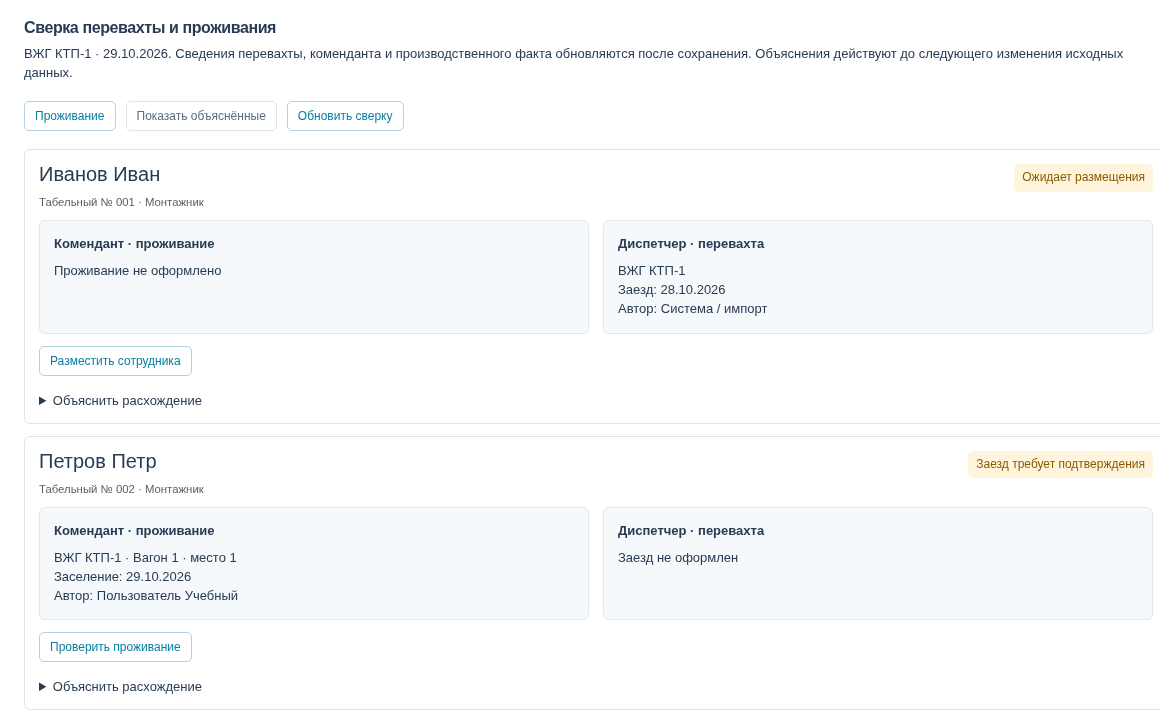
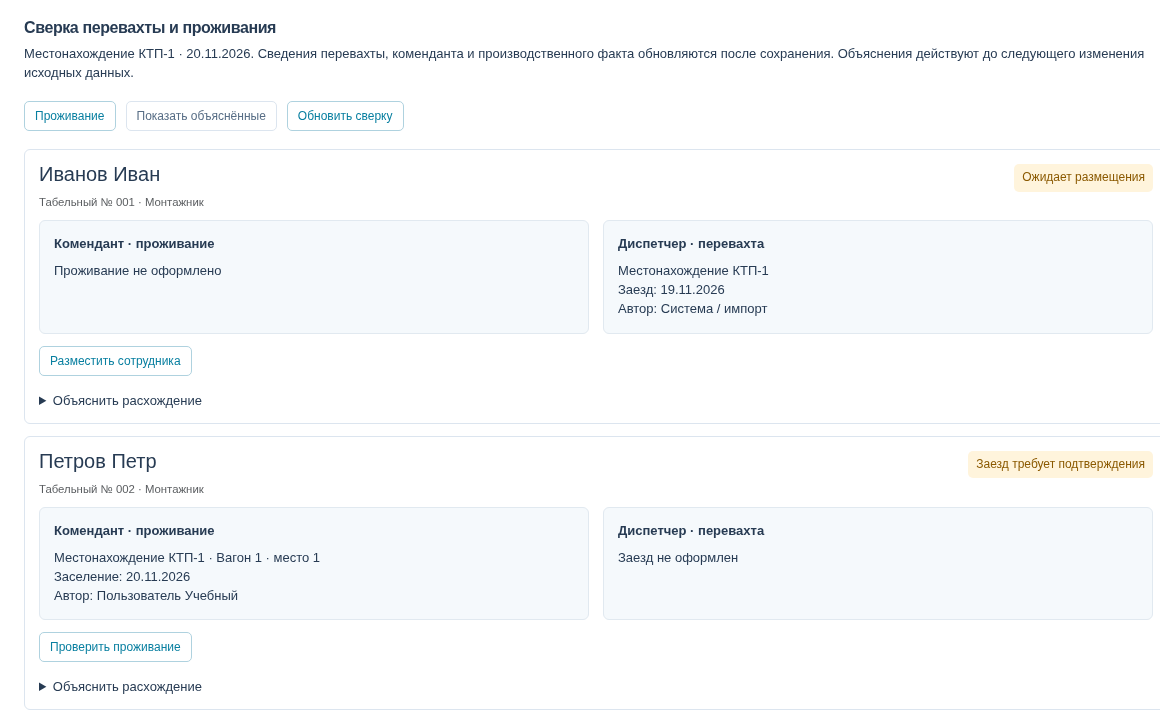
Refresh commandant guide and screenshots

Changed region(s): [[0.031, 0.0611, 0.9931, 0.1222], [0.031, 0.7639, 0.2793, 0.825], [0.5276, 0.3667, 0.6517, 0.4278]]

diff --git a/tests/browser/instructions.js b/tests/browser/instructions.js
@@ -6,6 +6,8 @@ const selector=page.locator('[data-fact-selector]'),date=selector.locator('[name
 return page;}
 async function shot(page,name,selector){if(selector){const el=page.locator(selector).first();await el.scrollIntoViewIfNeeded();await el.screenshot({path:c.images+'/'+name+'.png',animations:'disabled'});}else{await page.evaluate(()=>scrollTo(0,0));const box=await page.locator('main').boundingBox();await page.screenshot({path:c.images+'/'+name+'.png',clip:{x:Math.max(0,box.x),y:Math.max(0,box.y),width:Math.min(1160,box.width),height:Math.min(720,1000-Math.max(0,box.y))},animations:'disabled'});}captured++;}
 async function help(page,slug){const original=page.url(),entry=page.locator('[data-instructions-link]');assert.equal(await entry.count(),1);assert.equal(await entry.getAttribute('target'),'_blank');const popupPromise=page.waitForEvent('popup');await entry.click();const popup=await popupPromise;await popup.waitForLoadState();assert(popup.url().includes('/instructions/'+slug+'/'));assert.equal(page.url(),original);assert(await popup.locator('.help-toc').count());await popup.close();await page.setViewportSize({width:390,height:844});const box=await entry.boundingBox();assert(box.x>=0&&box.x+box.width<=390);assert(await page.evaluate(()=>document.documentElement.scrollWidth<=innerWidth+2));await page.evaluate(()=>scrollTo(0,0));await page.screenshot({path:'/tmp/fact-ux-mobile-'+slug+'.png',fullPage:true});await page.setViewportSize({width:1440,height:1000});}
+async function lodgingShots(){const lodging=await pageFor(c.lodging);await help(lodging,'lodging');await shot(lodging,'lodging-start');await lodging.locator('#movement > summary').click();await lodging.locator('#movement input[type=date]').evaluateAll(inputs=>inputs.forEach(input=>{const [year,month,day]=input.value.split('-');if(year&&month&&day){input.type='text';input.value=`${day}.${month}.${year}`;}}));await shot(lodging,'lodging-movement','#movement');const target=new URL(await lodging.getByRole('link',{name:'Сверка с перевахтой',exact:true}).getAttribute('href'),c.base);await lodging.goto(c.base+target.pathname+'?'+new URL(c.base+c.lodging.url).searchParams);await shot(lodging,'lodging-reconcile');}
+if(c.lodging_only){await lodgingShots();console.log('PASS: current commandant workflow and three instruction screenshots captured.');return;}
 const production=await pageFor(c.production);await help(production,'production');await shot(production,'production-start');
 const next=production.locator('[data-step-next]'),previous=production.locator('[data-step-previous]');assert.equal(await previous.isVisible(),false);await next.click();assert.equal(await previous.isVisible(),true);assert((await next.textContent()).includes('К бригадам'));await previous.click();assert.equal(await previous.isVisible(),false);
 for(const d of await production.locator('[data-work-object],[data-work-package]').all())await d.evaluate(el=>el.open=true);await shot(production,'production-works','[data-work-fact-row]');for(const [step,name] of [[2,'production-people'],[3,'production-crews'],[4,'production-links'],[5,'production-report']]){await production.locator('[data-step="'+step+'"]').click();if(step===3)await production.locator('.production-crew-recommendations').waitFor();await shot(production,name,'[data-entry-step="'+step+'"]');}
@@ -15,7 +17,7 @@ if(c.production_only){console.log('PASS: current production workflow and six ins
 const rotation=await pageFor(c.rotation);await help(rotation,'rotation');await shot(rotation,'rotation-start');await shot(rotation,'rotation-roster','[data-housing-panel=roster]');await rotation.locator('[data-housing-tab=calendar]').click();await rotation.locator('[data-calendar-table-scroll]').waitFor();await shot(rotation,'rotation-calendar','[data-housing-panel=calendar]');
 const movement=await pageFor({...c.rotation,url:c.rotation.movement_url});await movement.locator('input[type=date]').evaluateAll(inputs=>inputs.forEach(input=>{const [year,month,day]=input.value.split('-');if(year&&month&&day){input.type='text';input.value=`${day}.${month}.${year}`;}}));await shot(movement,'rotation-movement','[data-housing-panel=movement]');
 if(c.rotation_only){console.log('PASS: current personnel dispatcher workflow and four instruction screenshots captured.');return;}
-const lodging=await pageFor(c.lodging);await help(lodging,'lodging');await shot(lodging,'lodging-start');await lodging.locator('[data-open-lodging-movement]').click();await shot(lodging,'lodging-movement','[data-lodging-movement]');await lodging.goto(c.base+new URL(await lodging.getByRole('link',{name:'Сверка с перевахтой',exact:true}).getAttribute('href'),c.base).pathname+'?'+new URL(c.base+c.lodging.url).searchParams);await shot(lodging,'lodging-reconcile');
+await lodgingShots();
 const fuel=await pageFor(c.fuel);await help(fuel,'fuel');assert.equal(await fuel.locator('select[name=fuel_type]').count(),0);await shot(fuel,'fuel-start');await shot(fuel,'fuel-balance','[data-camp-fuel-form]');await shot(fuel,'fuel-history','details');
 const fuelForm=fuel.locator('[data-camp-fuel-form]'),received=fuelForm.locator('[name=received]'),savedReceived=await received.inputValue();await received.fill('');assert.equal((await fuel.locator('[data-fuel-preview]').textContent()).trim(),'—');await received.fill('99.125');assert((await fuelForm.locator('[data-fact-manual-state]').textContent()).includes('несохранённые'));
 // Preserve real m³ values on successful roundtrip, then exercise a rejected negative balance.

diff --git a/templates/instructions/article.html b/templates/instructions/article.html
@@ -33,7 +33,7 @@
         {% if chapter.table %}<div class="help-table-scroll"><table class="table"><thead><tr>{% for head in chapter.table.headers %}<th scope="col">{{ head }}</th>{% endfor %}</tr></thead><tbody>{% for row in chapter.table.rows %}<tr>{% for cell in row %}<td>{{ cell }}</td>{% endfor %}</tr>{% endfor %}</tbody></table></div>{% endif %}
         {% if chapter.image %}
         <figure class="help-figure">
-          <a href="{% static 'instructions/' %}{{ chapter.image }}.png?v=20261119-dispatcher-flow" target="_blank" rel="noopener" aria-label="Увеличить картинку: {{ chapter.title }}"><img src="{% static 'instructions/' %}{{ chapter.image }}.png?v=20261119-dispatcher-flow" alt="Учебный экран. {{ chapter.title }}" loading="lazy" decoding="async"></a>
+          <a href="{% static 'instructions/' %}{{ chapter.image }}.png?v=20261121-lodging-current" target="_blank" rel="noopener" aria-label="Увеличить картинку: {{ chapter.title }}"><img src="{% static 'instructions/' %}{{ chapter.image }}.png?v=20261121-lodging-current" alt="Учебный экран. {{ chapter.title }}" loading="lazy" decoding="async"></a>
           <figcaption>{{ chapter.title }}. Нажмите на картинку, чтобы рассмотреть крупнее.</figcaption>
         </figure>
         {% endif %}

diff --git a/core/instructions_content.py b/core/instructions_content.py
@@ -383,12 +383,13 @@ GUIDES = [{'slug': 'production',
   'chapters': [{'id': 'start',
                 'title': '1. Откройте местонахождение и посмотрите места',
                 'steps': ['Откройте «Внесение факта» → «Комендант · проживание».',
-                          'Выберите местонахождение, дату и при необходимости поиск или состояние места. Нажмите '
-                          '«Открыть».',
+                          'Выберите местонахождение и при необходимости задайте поиск или состояние места. '
+                          'Нажмите «Открыть». Экран всегда показывает текущее размещение, отдельного фильтра даты нет.',
                           'Проверьте итоги «Проживают», «Свободных мест», «Зарезервировано», «Недоступно». В заголовке каждого вагона показаны его счётчики. Места не загружаются все сразу: раскройте нужный вагон или корпус и дождитесь появления таблицы.',
-                          'В голубом блоке «Рабочий день» проверьте дату и объект или местонахождение. Кнопки «Сегодня» '
-                          'и «Вчера» открывают соответствующий день с теми же фильтрами. Если меняете '
-                          'условия вручную, примените их кнопкой в форме выбора.',
+                          'Панель фильтров закрепляется сверху при прокрутке на компьютере. Можно менять поиск '
+                          'и состояние мест, не возвращаясь к началу длинного списка.',
+                          'В зелёном сообщении указано, кто сейчас редактирует местонахождение. Один комендант '
+                          'вносит изменения, остальные пользователи видят актуальные сведения в режиме просмотра.',
                           'Если появилась ошибка, нажмите на сообщение в блоке «Нужно исправить». Портал '
                           'откроет нужную вкладку или группу и переведёт вас к месту исправления.'],
                 'text': '',
@@ -400,31 +401,33 @@ GUIDES = [{'slug': 'production',
                           'отдельно в «Перевахте».'},
                {'id': 'checkin',
                 'title': '2. Заселите сотрудника',
-                'steps': ['Нажмите «Оформить проживание» и выберите действие заселения.',
-                          'Выберите сотрудника, свободное новое место и фактическую дату. В выборе видны все '
+                'steps': ['Раскройте блок «Заселить, переселить или выселить» и выберите действие «Заселить».',
+                          'Укажите фактическую дату и сотрудника. В выборе видны все '
                           'сотрудники компании. Архивные отмечены отдельно: для нового заселения нужен '
-                          'активный сотрудник. Если места нет в списке, проверьте местонахождение, дату и состояние '
-                          'места.',
-                          'Заполните плановую дату выселения, если она известна. Отметьте выдачу ключей; при '
-                          'необходимости впишите номер ключа, пропуска и примечание.',
-                          'Нажмите «Сохранить». Портал сам проверит и временно зарезервирует сотрудника и место, '
-                          'чтобы два человека не оформили их одновременно, затем сразу сохранит проживание. '
-                          'Проверьте сотрудника в таблице мест.'],
+                          'активный сотрудник. Уже заселённый сотрудник будет подписан и недоступен для повторного заселения.',
+                          'Выберите вагон / корпус, затем свободное место внутри него. Если вагон не выбран, '
+                          'в списке показываются все свободные места местонахождения.',
+                          'При необходимости впишите номер пропуска, номер ключа, отметьте выдачу ключей и добавьте примечание.',
+                          'Нажмите единственную кнопку «Сохранить». Портал сам проверит сотрудника и место, '
+                          'защитит их от одновременного оформления и сразу изменит текущее размещение.',
+                          'После сохранения появится сообщение с ФИО сотрудника и ссылкой «Показать место». '
+                          'Нажмите её, чтобы раскрыть нужный вагон и подсветить место.'],
                 'text': '',
                 'bullets': (),
-                'example': 'Заселите Иванова в вагон 1, комнату 2, место 3 с 29 октября. Ключ выдан, номер '
-                           'ключа 12. Плановый выезд — 10 ноября.',
+                'example': 'Заселите Иванова в вагон 1, комнату 2, место 3 с фактической датой 29 октября. '
+                           'Ключ выдан, номер ключа 12.',
                 'image': 'lodging-movement',
                 'table': None,
-                'notice': 'Плановая дата выселения — напоминание. Место освободится только после оформления '
-                          'фактического выселения.'},
+                'notice': 'Фактическая дата сохраняется в записи и истории, но не откладывает действие. '
+                          'Даже при прошлой или будущей дате сотрудник сразу считается проживающим.'},
                {'id': 'move',
                 'title': '3. Переселите, выселите или обновите сведения',
                 'steps': ['В строке проживающего нажмите «Переселить», чтобы выбрать новое свободное место. '
-                          'Укажите дату и сохраните оформление.',
-                          'Для фактического ухода нажмите «Выселить». Проверьте человека и дату, начните '
-                          'оформление и сохраните.',
-                          'Для изменения ключей, пропуска, плановой даты или примечания используйте '
+                          'Укажите фактическую дату и нажмите «Сохранить». Старое место освободится, а новое '
+                          'сразу станет занятым. В сообщении будут ссылки и на старое, и на новое место.',
+                          'Для фактического ухода нажмите «Выселить». Проверьте человека и дату, затем '
+                          'нажмите «Сохранить». Место освободится сразу независимо от указанной даты.',
+                          'Для изменения ключей, пропуска или примечания используйте '
                           'доступное действие обновления сведений, не создавайте повторное заселение.',
                           'Пол сотрудника можно уточнить в соответствующей колонке. Он сохраняется в '
                           'карточке сотрудника.'],
@@ -434,7 +437,8 @@ GUIDES = [{'slug': 'production',
                            'заселения.',
                 'image': '',
                 'table': None,
-                'notice': 'Выселение освобождает койко-место. Оно не оформляет выезд человека из местонахождения.'},
+                'notice': 'Заселение, переселение и выселение меняют текущее размещение сразу. Введённая дата '
+                          'остаётся справочным фактом в истории и не оформляет заезд или выезд в перевахте.'},
                {'id': 'places',
                 'title': '4. Добавьте вагон и место',
                 'steps': ['Для нового вагона или корпуса используйте «Добавить вагон / корпус». Укажите '
@@ -457,7 +461,7 @@ GUIDES = [{'slug': 'production',
                 'steps': ['Нажмите «Сверка с перевахтой». Откройте строку расхождения.',
                           'Если заезд есть, а проживания нет, уточните место и оформите заселение.',
                           'Если выезд есть, а место ещё занято, проверьте факт выселения и закройте '
-                          'проживание нужной датой.',
+                          'проживание, указав известную фактическую дату.',
                           'Если расходятся городки или даты, сравните обе записи и уточните сведения у '
                           'диспетчера по персоналу. Исправляйте свою часть учёта.',
                           'Если доступно подтверждение проверенного случая, укажите основание. Такая отметка '
@@ -475,15 +479,15 @@ GUIDES = [{'slug': 'production',
                           'Для исправления ошибочных дат используйте действие исправления записи и укажите '
                           'причину. Если запись изменил коллега или появились последующие перемещения, '
                           'обновите страницу и перепроверьте цепочку.',
-                          'Кнопка «Выгрузить Excel» скачивает состав по текущей выборке. Для проверки '
-                          'прошлой даты сначала выберите её в фильтре.'],
+                          'Кнопка «Выгрузить Excel» скачивает текущее размещение с учётом поиска и состояния '
+                          'мест. Прошлые и будущие даты операций смотрите в истории.'],
                 'text': '',
                 'bullets': (),
                 'example': '',
                 'image': '',
                 'table': None,
-                'notice': 'Не закрывайте страницу до сообщения об успешном сохранении. Для закрытых дат '
-                          'обратитесь к администратору.'}]},
+                'notice': 'Не закрывайте страницу до сообщения об успешном сохранении. Для проживания нет '
+                          'ограничения по прошлой или будущей фактической дате.'}]},
  {'slug': 'fuel',
   'title': 'ГСМ · склад местонахождения',
   'summary': 'Начало дня, приход, расход и остаток в м³.',
@@ -1278,11 +1282,12 @@ GUIDES = [{'slug': 'production',
                 'image': '',
                 'table': None,
                 'notice': 'Инструкция объясняет действия, но не выдаёт дополнительные права. Видимые кнопки '
-                          'зависят от вашей роли и выбранной даты.'},
+                          'зависят от вашей роли и права редактировать выбранное местонахождение.'},
                {'id': 'day',
                 'title': 'Ваш порядок работы на день',
-                'steps': ['Откройте «Комендант · проживание», выберите местонахождение и дату.',
-                          'Проверьте новые заселения, переселения, выселения и просроченные плановые даты.',
+                'steps': ['Откройте «Комендант · проживание» и выберите местонахождение. Портал покажет '
+                          'текущее размещение.',
+                          'Проверьте новые заселения, переселения и выселения.',
                           'Оформите каждого сотрудника на реальное свободное место. Внесите ключи, пропуск и '
                           'примечания.',
                           'Проверьте свободные, зарезервированные и недоступные места; уточните сведения '
@@ -1301,7 +1306,7 @@ GUIDES = [{'slug': 'production',
                 'text': '',
                 'bullets': ['Создание и уточнение вагонов, комнат и мест; быстрое добавление места при '
                             'оформлении.',
-                            'Заселение, переселение, выселение, сведения о ключах и пропусках, плановая дата '
+                            'Заселение, переселение, выселение, фактические даты, сведения о ключах, пропусках '
                             'и примечания.',
                             'Уточнение пола проживающего в карточке сотрудника.',
                             'Сверка проживания с фактическим нахождением и производственными записями; '
@@ -1311,8 +1316,9 @@ GUIDES = [{'slug': 'production',
                 'example': '',
                 'image': '',
                 'table': None,
-                'notice': 'Заезды и выезды между местонахождениями ведёт диспетчер по персоналу. Исходную шахматку из '
-                          'Excel загружает администратор. Плановая дата сама не освобождает место.'},
+                'notice': 'Заезды и выезды между местонахождениями ведёт диспетчер по персоналу. Исходную '
+                          'шахматку из Excel загружает администратор. Дата операции сохраняется в истории, '
+                          'а текущее размещение меняется сразу.'},
                {'id': 'tasks',
                 'title': 'Задания: от получения до результата',
                 'steps': ['Откройте «Мои задания». Счётчик в меню показывает активные задания. «Ещё не '

diff --git a/core/test_instructions_browser.py b/core/test_instructions_browser.py
@@ -43,7 +43,7 @@ class InstructionsBrowserTests(StaticLiveServerTestCase):
             user.last_name='Учебный';user.first_name='Пользователь';user.save(update_fields=['last_name','first_name'])
             client=Client();client.force_login(user);return client.cookies['sessionid'].value
         from urllib.parse import urlencode
-        config={'base':self.live_server_url,'chromium':shutil.which('chromium'),'images':os.environ.get('INSTRUCTIONS_IMAGES_DIR',str(Path(__file__).resolve().parents[1]/'static/instructions')),'production_only':os.environ.get('INSTRUCTIONS_PRODUCTION_ONLY')=='1','rotation_only':os.environ.get('INSTRUCTIONS_ROTATION_ONLY')=='1',
+        config={'base':self.live_server_url,'chromium':shutil.which('chromium'),'images':os.environ.get('INSTRUCTIONS_IMAGES_DIR',str(Path(__file__).resolve().parents[1]/'static/instructions')),'production_only':os.environ.get('INSTRUCTIONS_PRODUCTION_ONLY')=='1','rotation_only':os.environ.get('INSTRUCTIONS_ROTATION_ONLY')=='1','lodging_only':os.environ.get('INSTRUCTIONS_LODGING_ONLY')=='1',
             'production':{'cookie':actor(demo.users['DISPATCHER']),'url':reverse('production:fact_day_workspace')+'?'+urlencode({'construction_object':demo.obj.pk,'date':str(demo.day),'section':'works'})},
             'rotation':{'cookie':actor(home.hr),'url':reverse('personnel:housing')+'?'+urlencode({'camp':home.a.pk}),'movement_url':reverse('personnel:movements')+'?'+urlencode({'camp':home.a.pk})},
             'lodging':{'cookie':actor(home.commandant),'url':reverse('personnel:lodging')+'?'+urlencode({'camp':home.a.pk,'date':str(home.day)})},

diff --git a/docs/dispatch-ui.md b/docs/dispatch-ui.md
@@ -100,7 +100,7 @@
 
 Номер ключа хранится отдельно от номера пропуска. Импорт понимает записи вида «КЛЮЧ 2/19» как выданный ключ и сохраняет исходное обозначение. В форме и таблице ключ и пропуск подписаны раздельно. Нужны миграции resources/0022 и personnel/0010.
 
-«Плановая дата выселения» необязательна и служит ориентиром. Она не выселяет сотрудника автоматически. Для заселения/переселения предлагаются только доступные свободные места на выбранную фактическую дату: занятые, постоянные резервы, неактивные вагоны и временные резервы других оформлений исключены. При смене даты список обновляется. Подписанное оформление и проверка занятости при записи защищают от параллельного заселения.
+Экран проживания показывает текущее оперативное размещение без фильтра даты. Открытая запись означает, что сотрудник проживает сейчас; выселение закрывает её и сразу освобождает место. Введённая фактическая дата сохраняется как справочное поле и в истории, но не откладывает заселение, переселение или выселение даже при прошлом либо будущем значении. Для заселения и переселения предлагаются только доступные свободные места: занятые, постоянные резервы, неактивные вагоны и временные резервы других оформлений исключены. Подписанное оформление и проверка текущей занятости при записи защищают от параллельного заселения.
 
 Повторная загрузка той же шахматки дополняет отсутствующие сведения о вагоне и номере ключа без повторного заселения. Признак выдачи старого импорта исправляется только у проживания, которое после загрузки никто не редактировал. Последующие исправления коменданта сохраняются.
 
